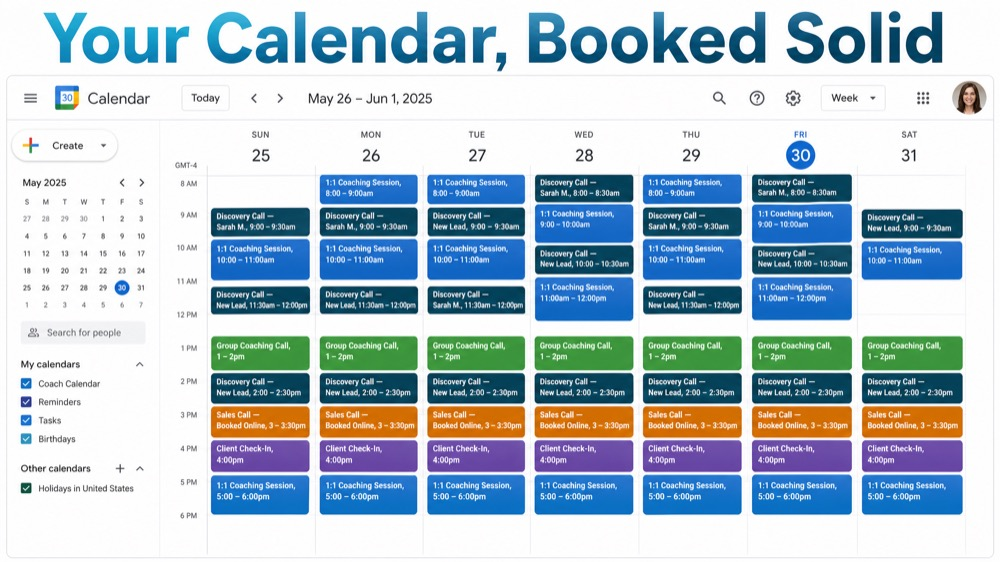
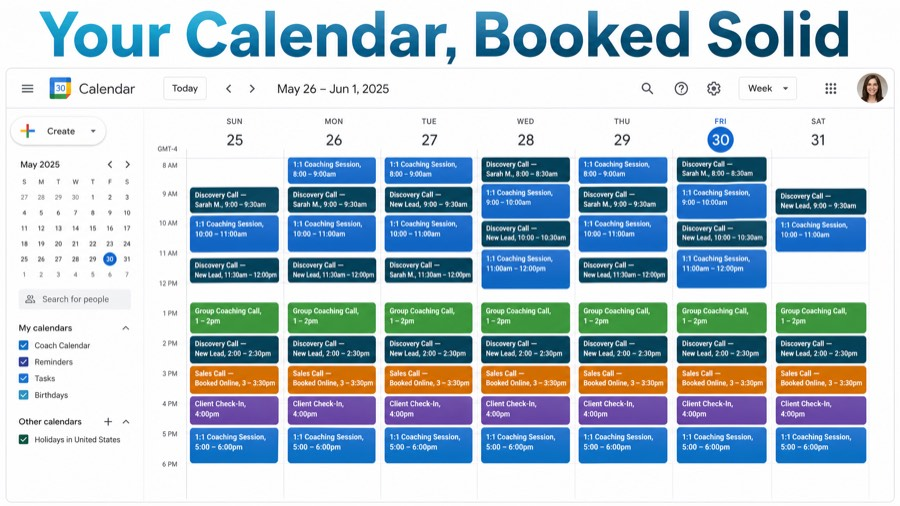
Speed: preload + high-priority LCP slide, lighter slide encodes

diff --git a/index.html b/index.html
@@ -11,6 +11,7 @@
       <link rel="preload" as="script" href="./coach-source_files/platform.client.min.js">
 
       <link rel="icon" type="image/png" href="/favicon.png"><style>html{scroll-behavior:smooth}#hero-form{scroll-margin-top:20px}</style>
+      <link rel="preload" as="image" href="./coach-source_files/hero-slide-1.jpg" fetchpriority="high">
       <link rel="apple-touch-icon" href="/favicon.png">
 
       <meta name="robots" content="index, follow, max-snippet:-1, max-image-preview:large, max-video-preview:-1">
@@ -1022,7 +1023,7 @@ src="https://www.facebook.com/tr?id=1514106503481354&ev=PageView&noscript=1"
                   <div class="widget widgetResponsive imageWidget col20" style="margin-top: 6px; margin-left: 0px;">
       <div class="erio-hero-carousel" aria-roledescription="carousel" aria-label="What you get">
         <div class="erio-hc-track">
-          <img src="./coach-source_files/hero-slide-1.jpg" alt="Examples of custom coaching websites" loading="eager" decoding="async">
+          <img src="./coach-source_files/hero-slide-1.jpg" alt="Examples of custom coaching websites" loading="eager" decoding="async" fetchpriority="high">
           <img src="./coach-source_files/hero-slide-2.jpg" alt="Coach hosting a live session full of students" loading="lazy" decoding="async">
           <img src="./coach-source_files/hero-slide-3.jpg" alt="Coaching calendar booked solid with client calls" loading="lazy" decoding="async">
           <img src="./coach-source_files/hero-slide-4.jpg" alt="Coach being found on Google and ChatGPT" loading="lazy" decoding="async">
@@ -1137,7 +1138,7 @@ src="https://www.facebook.com/tr?id=1514106503481354&ev=PageView&noscript=1"
 
       <div class="erio-hero-carousel" aria-roledescription="carousel" aria-label="What you get" style="max-width: 714px; margin: 0 auto;">
         <div class="erio-hc-track">
-          <img src="./coach-source_files/hero-slide-1.jpg" alt="Examples of custom coaching websites" loading="eager" decoding="async">
+          <img src="./coach-source_files/hero-slide-1.jpg" alt="Examples of custom coaching websites" loading="eager" decoding="async" fetchpriority="high">
           <img src="./coach-source_files/hero-slide-2.jpg" alt="Coach hosting a live session full of students" loading="lazy" decoding="async">
           <img src="./coach-source_files/hero-slide-3.jpg" alt="Coaching calendar booked solid with client calls" loading="lazy" decoding="async">
           <img src="./coach-source_files/hero-slide-4.jpg" alt="Coach being found on Google and ChatGPT" loading="lazy" decoding="async">
